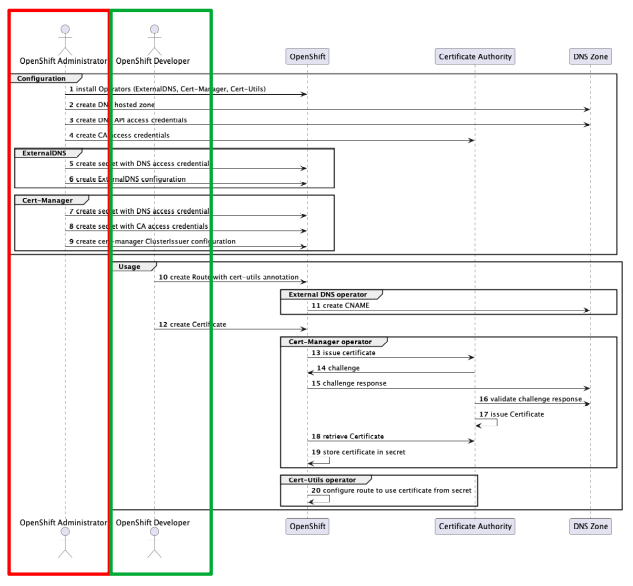
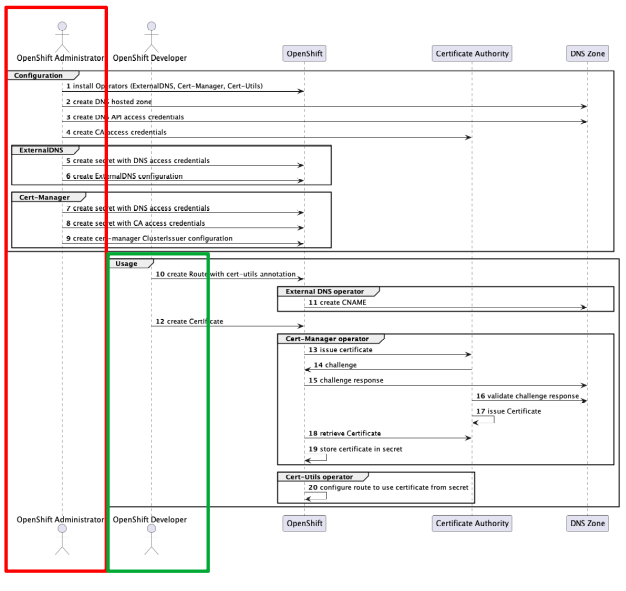
Close the day for  opernsourcerers.org post

Changed region(s): [[0.0, 0.0, 1.0, 0.9829]]

diff --git a/docs/opensourcerers.org/opensourcerers-post.md b/docs/opensourcerers.org/opensourcerers-post.md
@@ -4,7 +4,7 @@ Segregation of duties - how a Kubernetes Management Platform adds security to yo
 
 ## Introduction
 
-Based on Stefan's post [1] [Configuring custom domains for applications – the operator-way](https://www.opensourcerers.org/2022/12/12/configuring-custom-domains-for-applications-the-operator-way/) in December some of us felt inspired to replay what Stefan outlined.
+Based on Stefan's post [1] [Configuring custom domains for applications – the operator-way](https://www.opensourcerers.org/2022/12/12/configuring-custom-domains-for-applications-the-operator-way/) in December, some of us felt inspired to replay what Stefan outlined.
 
 Main topics we wanted to cover:
 * Utilize a custom domain name for a project
@@ -67,6 +67,19 @@ The below picture illustrates the flow of things in our Red Hat Openshift enviro
 
 ![dns_sequence_overview](images/winkelschleifer-sequence.png)
 
+## How security plays along
+
+There are two major blocks of activities which need to happen.
+
+First - the **administrative ones** which need to be executed with additional rights and are mostly handled outside of application teams. Respresented by the **red box**.
+
+<img src="images/winkelschleifer-sequence-admin.png" alt="Admin tasks" width="300"/>
+
+Second - the **application operational ones** which are executed by application development and application operations teams in typical enterprise environments. Represented by the **green box**.
+
+<img src="images/winkelschleifer-sequence-Developer2.png" alt="Developer tasks" width="300"/>
+
+## Conclusion
 
 
 ## References
@@ -74,10 +87,3 @@ The below picture illustrates the flow of things in our Red Hat Openshift enviro
 [1] [Configuring custom domains for applications – the operator-way](https://www.opensourcerers.org/2022/12/12/configuring-custom-domains-for-applications-the-operator-way/)
 
 [2] [The Operator Framework](https://operatorframework.io/)
-
-## Images
-
-
-![dns_sequence_admin](images/winkelschleifer-sequence-admin.png)
-
-![dns_sequence_developer](images/winkelschleifer-sequence-Developer2.png)
